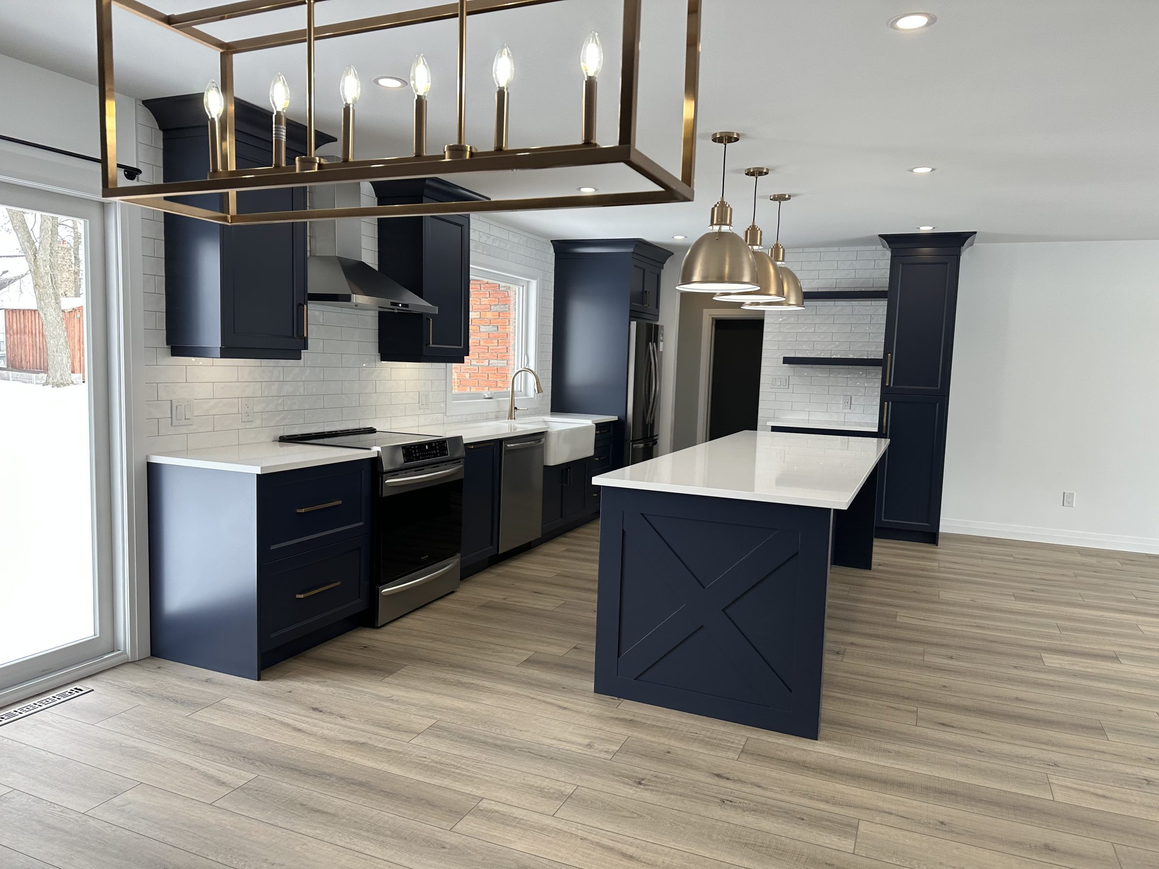
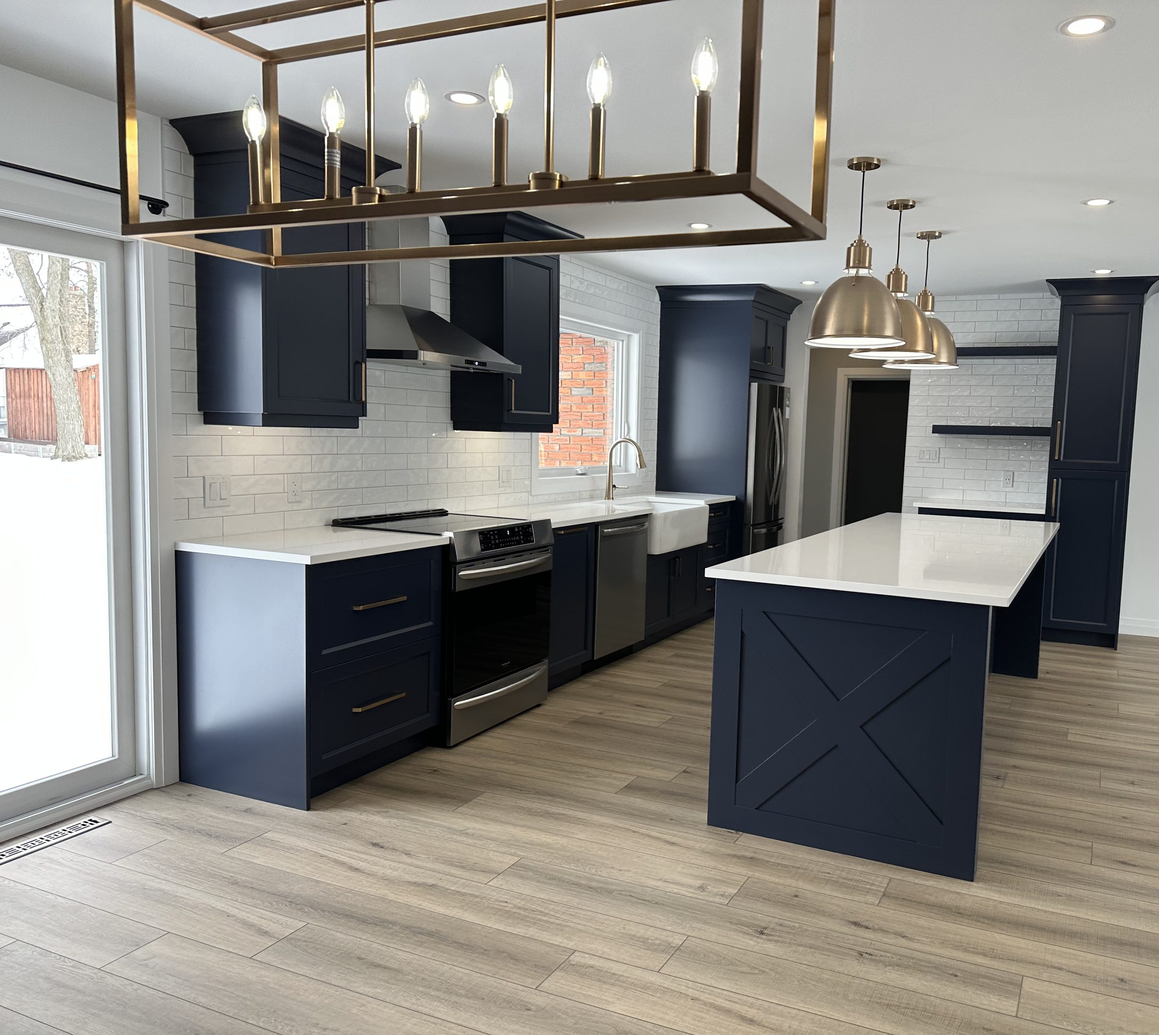
Trim the right side of the kitchens hover image
The right sixth of 8665 was empty wall and floor, which the hero crop
was spending width on. Cut at 84%, which keeps the tall pantry whole
and stops just past it.

Source is now 3386x3024, so the declared width/height on the img were
updated to match: they were still claiming the old 4:3 aspect.

diff --git a/index.html b/index.html
@@ -40,7 +40,7 @@
       <img class="hero__img hero__img--kitchens" alt="" loading="lazy"
            src="images/hero-kitchens-1200.jpg"
            srcset="images/hero-kitchens-1200.jpg 1200w, images/hero-kitchens-2400.jpg 2400w"
-           sizes="100vw" width="2400" height="1800">
+           sizes="100vw" width="2400" height="2143">
       <img class="hero__img hero__img--tile" alt="" loading="lazy"
            src="images/hero-tile-1200.jpg"
            srcset="images/hero-tile-1200.jpg 1200w, images/hero-tile-1440.jpg 1440w"
